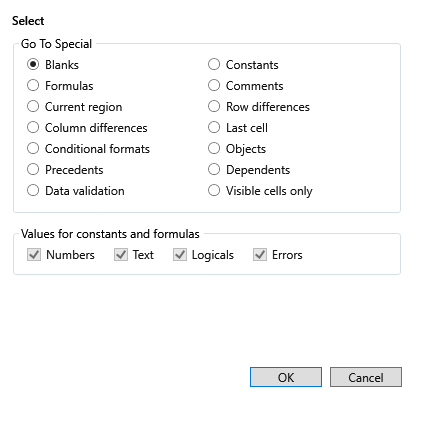
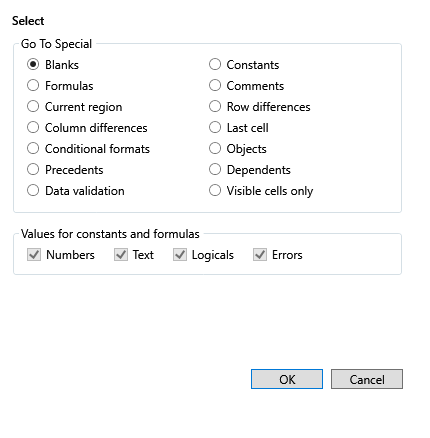
fix: verify Go To Special Avalonia parity evidence

diff --git a/tests/FreeX.App.Avalonia.Tests/ParityCaptureTests.cs b/tests/FreeX.App.Avalonia.Tests/ParityCaptureTests.cs
@@ -436,6 +436,9 @@ public sealed class ParityCaptureTests
                 CountExactColorOnRow(image, 274, red: 213, green: 223, blue: 229)
                     .Should().BeGreaterThan(300,
                         "the bottom value-type border should remain at the WPF-aligned action-row separation");
+                FindAccentRows(image, minimumY: 350, maximumY: 400, minimumPixels: 20)
+                    .Should().Equal([369, 388],
+                        "the default action button border should align with the WPF capture rows");
                 var checkboxAnchors = FindDarkRunStartsOnRow(image, 248, minimumLength: 12);
                 checkboxAnchors.Should().Equal([27, 113, 173, 255]);
 
@@ -554,6 +557,33 @@ public sealed class ParityCaptureTests
         }
 
         return count;
+    }
+
+    private static IReadOnlyList<int> FindAccentRows(
+        PixelImage image,
+        int minimumY,
+        int maximumY,
+        int minimumPixels)
+    {
+        var rows = new List<int>();
+        for (var y = minimumY; y <= maximumY; y++)
+        {
+            var count = 0;
+            for (var x = 0; x < image.Width; x++)
+            {
+                var offset = (y * image.Width + x) * 4;
+                var red = image.Pixels[offset + 2];
+                var green = image.Pixels[offset + 1];
+                var blue = image.Pixels[offset];
+                if (red < 180 && green is > 90 and < 210 && blue > 180)
+                    count++;
+            }
+
+            if (count >= minimumPixels)
+                rows.Add(y);
+        }
+
+        return rows;
     }
 
     private static IReadOnlyList<int> FindDarkRunStartsOnRow(

diff --git a/src/FreeX.App.Host/ParityCapture.cs b/src/FreeX.App.Host/ParityCapture.cs
@@ -522,6 +522,10 @@ internal static class ParityCapture
             {
                 CaptureDialog(results, "dialog.GoalSeek", outDir, () => CreateGoalSeekParityDialog(sheet.Id));
             }
+            else if (string.Equals(targetSurfaceId, "dialog.GoToSpecial", StringComparison.Ordinal))
+            {
+                CaptureDialog(results, "dialog.GoToSpecial", outDir, () => new GoToSpecialDialog());
+            }
             else if (string.Equals(targetSurfaceId, "dialog.Sparkline", StringComparison.Ordinal))
             {
                 CaptureDialog(results, "dialog.Sparkline", outDir, () =>
@@ -560,7 +564,7 @@ internal static class ParityCapture
             }
             else
             {
-                AddMissing(results, targetSurfaceId, "dialog", "Targeted WPF parity capture only supports dialog.FormatCells, dialog.AccessibilityChecker, dialog.GoalSeek, dialog.Sparkline, dialog.ExportOptions, dialog.ProtectWorkbook, and dialog.PivotTableOptions in this lane.");
+                AddMissing(results, targetSurfaceId, "dialog", "Targeted WPF parity capture only supports dialog.FormatCells, dialog.AccessibilityChecker, dialog.GoalSeek, dialog.GoToSpecial, dialog.Sparkline, dialog.ExportOptions, dialog.ProtectWorkbook, and dialog.PivotTableOptions in this lane.");
             }
 
             return;

diff --git a/tests/FreeX.App.Host.Tests/GoToDialogsTests.cs b/tests/FreeX.App.Host.Tests/GoToDialogsTests.cs
@@ -122,6 +122,16 @@ public sealed class GoToDialogsTests
     }
 
     [Fact]
+    public void GoToSpecialParityCapture_SupportsFocusedProductionDialogRoute()
+    {
+        var source = DialogSourceTestSupport.ReadHostSources("ParityCapture.cs");
+
+        source.Should().Contain("string.Equals(targetSurfaceId, \"dialog.GoToSpecial\", StringComparison.Ordinal)");
+        source.Should().Contain("CaptureDialog(results, \"dialog.GoToSpecial\", outDir, () => new GoToSpecialDialog())");
+        source.Should().Contain("dialog.GoToSpecial, dialog.Sparkline");
+    }
+
+    [Fact]
     public void GoToDialog_ExposesUIANamesAndHelpTextForReferenceSurfaces()
     {
         var source = DialogSourceTestSupport.ReadHostSources("GoToDialog.cs");

diff --git a/tests/FreeX.App.Services.Tests/GoToDialogPlannerTests.cs b/tests/FreeX.App.Services.Tests/GoToDialogPlannerTests.cs
@@ -31,7 +31,7 @@ public sealed class GoToDialogPlannerTests
         GoToSpecialDialogPlanner.AvaloniaContentRightMargin.Should().Be(29);
         GoToSpecialDialogPlanner.ActionRowTopMargin.Should().Be(10);
         GoToSpecialDialogPlanner.ActionRowRightMargin.Should().Be(28);
-        GoToSpecialDialogPlanner.ActionRowBottomMargin.Should().Be(51);
+        GoToSpecialDialogPlanner.ActionRowBottomMargin.Should().Be(49);
         GoToSpecialDialogPlanner.ActionButtonHeight.Should().Be(20);
         GoToSpecialDialogPlanner.AvaloniaChoiceGroupTopMargin.Should().Be(3);
         GoToSpecialDialogPlanner.AvaloniaChoiceGroupBottomMargin.Should().Be(13);

diff --git a/src/FreeX.App.Services/GoToDialogPlanner.cs b/src/FreeX.App.Services/GoToDialogPlanner.cs
@@ -91,7 +91,7 @@ public static class GoToSpecialDialogPlanner
     public const double AvaloniaContentRightMargin = 29;
     public const double ActionRowTopMargin = 10;
     public const double ActionRowRightMargin = 28;
-    public const double ActionRowBottomMargin = 51;
+    public const double ActionRowBottomMargin = 49;
     public const double ActionButtonHeight = 20;
     public const double AvaloniaChoiceGroupTopMargin = 3;
     public const double AvaloniaChoiceGroupBottomMargin = 13;

diff --git a/docs/parity/avalonia-wpf-cross-app-dashboard.md b/docs/parity/avalonia-wpf-cross-app-dashboard.md
@@ -8,9 +8,9 @@ Generated by `tools/Generate-CrossAppParityDashboard.ps1` from existing generate
 
 | App | Primary evidence | Current generated state | Next slice |
 |---|---|---|---|
-| FreeX | Functional matrix, classifier, dialog inventory, dialog visual evidence, command surface | 531 functional commands; 473 command inventory parity; 0 Avalonia-missing; 0 real classified binding gaps; 48 catalog-backed pseudo-gallery rows (34 conditional-format, 10 font/border, 4 accounting-symbol); 57/57 dialog routes captured on WPF and Avalonia; 93 paired screenshot surface ids, 0 Avalonia-only ids, 0 WPF-only ids; 0 scale-aware dimension mismatches; 1 unresolved high-delta visual review candidates at triage score >= 0.4 (highest 0.411352); 32 raw PNG pixel dimension mismatches, of which 32 normalize by capture DPI. These are coverage/triage metrics, not a visual-parity claim. | Command/dialog route coverage is complete for the generated inputs: all 48 pseudo-gallery rows are catalog-backed in classifier evidence (34 conditional-format rows over 38 runtime catalog items, 10 font/border rows, and 4 accounting-symbol rows), and dialog screenshot evidence has 93 paired WPF/Avalonia manifest surface ids with 0 Avalonia-only ids. This is coverage and size-comparability evidence, not visual parity. The paired screenshots retain 1 unresolved high-delta visual review candidates at triage score >= 0.4 (highest 0.411352); keep those candidates separate from 0 scale-aware dimension mismatch rows and 32 raw PNG pixel dimension mismatches. |
+| FreeX | Functional matrix, classifier, dialog inventory, dialog visual evidence, command surface | 531 functional commands; 473 command inventory parity; 0 Avalonia-missing; 0 real classified binding gaps; 48 catalog-backed pseudo-gallery rows (34 conditional-format, 10 font/border, 4 accounting-symbol); 57/57 dialog routes captured on WPF and Avalonia; 93 paired screenshot surface ids, 0 Avalonia-only ids, 0 WPF-only ids; 0 scale-aware dimension mismatches; 0 unresolved high-delta visual review candidates at triage score >= 0.4 (highest 0.39914); 32 raw PNG pixel dimension mismatches, of which 32 normalize by capture DPI. These are coverage/triage metrics, not a visual-parity claim. | Command/dialog route coverage is complete for the generated inputs: all 48 pseudo-gallery rows are catalog-backed in classifier evidence (34 conditional-format rows over 38 runtime catalog items, 10 font/border rows, and 4 accounting-symbol rows), and dialog screenshot evidence has 93 paired WPF/Avalonia manifest surface ids with 0 Avalonia-only ids. This is coverage and size-comparability evidence, not visual parity. The paired screenshots retain 0 unresolved high-delta visual review candidates at triage score >= 0.4 (highest 0.39914); keep those candidates separate from 0 scale-aware dimension mismatch rows and 32 raw PNG pixel dimension mismatches. |
 | FreeW | Generated command inventory | 870 commands; 451 shared-profile; 0 actionable WPF-missing; 0 actionable Avalonia-missing; 371 profile-shape-only; 43 command-id aliases; 5 platform-only; 0 deferred | Backstage print/export, WordArt/watermark, table/page-composition, shape/object, SmartArt polygon, and chart visual proof now have paired WPF/Avalonia renderer contracts plus no-Word real-capture smoke runs; chart proof also validates shared chart data signatures across hosts. All-up no-Word runner fallback drift is classified as runner evidence hygiene, and the standalone no-Word runner now writes a post-summary readiness manifest with comparable scenario IDs, candidate Word PNG baseline paths, remaining blocker IDs, and an explicit no-authoritative-Word-PNG-parity claim. Next FreeW evidence slices are the same runs with real Word PNG baselines on a Word-capable host and broader Word-authoritative drawing/object/chart/table comparisons. |
-| FreeP | Generated command/evidence inventory | 269 commands; 267 shared-profile; 0 actionable WPF-missing; 0 actionable Avalonia-missing; 2 platform-only; 91 workflow evidence rows | Layout picker, table picker, rich inline table/text editing, shared visible list galleries, picture-bullet import/rendering plus picker/media authoring, slide-pane reorder, bottom New Slide, notes-page preview/PDF rendering, fixed-layout PDF connector, image, triangle-arrowhead, rotation, ellipse, picture-frame/crop/alpha/color-effect, shape-opacity export, and PDF visual-baseline readiness with WPF/Avalonia page-raster artifact patterns plus paired diff-report targets, export/backstage package-handoff, presenter recording backend contracts plus capture-adapter readiness and paired backend injection, captured PPTX media and generated WebVTT caption artifact authoring, focused PowerPoint-native caption package retention including external caption relationship metadata, native media/caption sidecar package depth, and caption relationship-id collision remapping, shared chart number/date label rendering plus edge/mixed manual-layout bounds, surface grid plus projected contour/wireframe/3-D surface geometry plus 3-D pie lower-depth rendering, stock OHLC capture-readiness metadata, and PowerPoint/WPF/Avalonia chart baseline capture readiness, SmartArt basic hierarchy plus vertical bullet list plus basic cycle plus radial cycle plus gear cycle plus text cycle plus basic, continuous block, segmented, chevron, alternating, funnel, circle, and arrow-ribbon process plus basic block list plus vertical box list plus stacked list plus basic pyramid plus bounded pictureCaptionList live layout plus basic/radial/stacked Venn and target-list relationship layouts plus shared outline reorder/promote/demote editing, data-part authoring, text-pane/cache-regeneration authoring, and matching thin WPF/Avalonia text-pane host controls with bounded keyboard routes, header/footer placeholder creation plus inherited layout/master geometry, title-slide suppression, fixed/auto date options, shared OMML fraction-type variants, matrix spacing/base alignment, delimiter grow semantics, accent/bar render-plan coverage, manual line breaks, boxed equation-array alignment points, transparent phantom spacing classes, pre-sub/superscript layout, matrix empty-cell placeholder handling, and group-character vertical justification, ink execution with repeated custom-show route retention, modern comments/review with shared mention candidate and insertion planning, accessibility/proofing workflow depth, animation-pane row/playback workflow evidence, paired real Windows microphone narration handoff, paired Windows camera handoff readiness, paired default no-COM camera handoff/package-target readiness without encoded-payload or PowerPoint-baseline claims, deterministic encoded camera media payload artifacts through host-specific PPTX package paths, and paired OS-backed unavailable-hardware/no-device recording evidence now have WPF/Avalonia no-COM evidence paths. Continue workflow-depth slices in live capture on real microphone/camera hardware, actual local default no-COM camera video encoding that produces non-empty mp4 payloads, calibrated chart-family acceptance thresholds and remaining type-specific decisions beyond the current PowerPoint baseline-depth/type/label captures, broader SmartArt layout families, remaining OMML constructs/alignment semantics and PowerPoint-authoritative math visual-baseline coverage, broader real-deck PowerPoint-native media/caption baselines, actual PowerPoint PDF/PNG capture and calibrated PDF visual diffs on a COM-capable host, and PowerPoint-authoritative animation-pane visual/playback baselines. |
+| FreeP | Generated command/evidence inventory | 287 commands; 285 shared-profile; 0 actionable WPF-missing; 0 actionable Avalonia-missing; 2 platform-only; 91 workflow evidence rows | Layout picker, table picker, rich inline table/text editing, shared visible list galleries, picture-bullet import/rendering plus picker/media authoring, slide-pane reorder, bottom New Slide, notes-page preview/PDF rendering, fixed-layout PDF connector, image, triangle-arrowhead, rotation, ellipse, picture-frame/crop/alpha/color-effect, shape-opacity export, and PDF visual-baseline readiness with WPF/Avalonia page-raster artifact patterns plus paired diff-report targets, export/backstage package-handoff, presenter recording backend contracts plus capture-adapter readiness and paired backend injection, captured PPTX media and generated WebVTT caption artifact authoring, focused PowerPoint-native caption package retention including external caption relationship metadata, native media/caption sidecar package depth, and caption relationship-id collision remapping, shared chart number/date label rendering plus edge/mixed manual-layout bounds, surface grid plus projected contour/wireframe/3-D surface geometry plus 3-D pie lower-depth rendering, stock OHLC capture-readiness metadata, and PowerPoint/WPF/Avalonia chart baseline capture readiness, SmartArt basic hierarchy plus vertical bullet list plus basic cycle plus radial cycle plus gear cycle plus text cycle plus basic, continuous block, segmented, chevron, alternating, funnel, circle, and arrow-ribbon process plus basic block list plus vertical box list plus stacked list plus basic pyramid plus bounded pictureCaptionList live layout plus basic/radial/stacked Venn and target-list relationship layouts plus shared outline reorder/promote/demote editing, data-part authoring, text-pane/cache-regeneration authoring, and matching thin WPF/Avalonia text-pane host controls with bounded keyboard routes, header/footer placeholder creation plus inherited layout/master geometry, title-slide suppression, fixed/auto date options, shared OMML fraction-type variants, matrix spacing/base alignment, delimiter grow semantics, accent/bar render-plan coverage, manual line breaks, boxed equation-array alignment points, transparent phantom spacing classes, pre-sub/superscript layout, matrix empty-cell placeholder handling, and group-character vertical justification, ink execution with repeated custom-show route retention, modern comments/review with shared mention candidate and insertion planning, accessibility/proofing workflow depth, animation-pane row/playback workflow evidence, paired real Windows microphone narration handoff, paired Windows camera handoff readiness, paired default no-COM camera handoff/package-target readiness without encoded-payload or PowerPoint-baseline claims, deterministic encoded camera media payload artifacts through host-specific PPTX package paths, and paired OS-backed unavailable-hardware/no-device recording evidence now have WPF/Avalonia no-COM evidence paths. Continue workflow-depth slices in live capture on real microphone/camera hardware, actual local default no-COM camera video encoding that produces non-empty mp4 payloads, calibrated chart-family acceptance thresholds and remaining type-specific decisions beyond the current PowerPoint baseline-depth/type/label captures, broader SmartArt layout families, remaining OMML constructs/alignment semantics and PowerPoint-authoritative math visual-baseline coverage, broader real-deck PowerPoint-native media/caption baselines, actual PowerPoint PDF/PNG capture and calibrated PDF visual diffs on a COM-capable host, and PowerPoint-authoritative animation-pane visual/playback baselines. |
 
 ## FreeX Visual Review Queue
 
@@ -18,7 +18,6 @@ This is a deterministic human-review queue, not a pass/fail result. The threshol
 
 | Surface id | Triage score | Logical dimensions match | Dimension bucket | Review status |
 |---|---:|---|---|---|
-| dialog.GoToSpecial | 0.411352 | True | none | unresolved visual review candidate |
 
 ## Source Files
 

diff --git a/docs/parity/dialog-visual-evidence-summary.md b/docs/parity/dialog-visual-evidence-summary.md
@@ -37,18 +37,17 @@ Sources:
 | Paired expected-size evidence mismatches | 0 |
 | Stale promoted expected-size evidence | 0 |
 | Policy-accepted native/control differences | 0 |
-| High-delta visual review candidates | 1 |
+| High-delta visual review candidates | 0 |
 | Visual review triage threshold | 0.4 |
 
 ## Visual Review Queue
 
 This queue is a deterministic prioritization aid, not a pass/fail result. The threshold is 0.4: This is a deterministic review-prioritization cutoff over the triage score (normalized sample, luma, non-background, and logical-size deltas); it is not a pass/fail or visual-parity acceptance threshold. Rows at or above it remain unresolved review candidates until a human compares the paired evidence.
 
-Equal logical dimensions, nonblank PNGs, and paired manifest ids establish evidence coverage and size comparability only; they do not establish visual parity. The 1 rows below remain unresolved high-delta candidates.
+Equal logical dimensions, nonblank PNGs, and paired manifest ids establish evidence coverage and size comparability only; they do not establish visual parity. The 0 rows below remain unresolved high-delta candidates.
 
 | Surface id | Score | Logical dimensions match | Dimension bucket | Expected-size mismatch | Review status | Review reason |
 | --- | ---: | --- | --- | --- | --- | --- |
-| dialog.GoToSpecial | 0.411 | True | none | False | unresolved visual review candidate | High image delta requires paired WPF/Avalonia visual review; equal dimensions do not resolve it. |
 
 ## Scale-Aware Dimension Mismatch Classification
 
@@ -63,7 +62,6 @@ Outliers are ranked by a deterministic triage score: normalized 32x32 ARGB sampl
 
 | Surface id | WPF logical size | Avalonia logical size | Raw PNG sizes | Bucket | Evidence flag | Score | Sample delta | Luma delta | Non-bg delta |
 | --- | ---: | ---: | --- | --- | --- | ---: | ---: | ---: | ---: |
-| dialog.GoToSpecial | 430x438 | 430x438 | 430x438 px @ 96 DPI vs 430x438 px @ 96 DPI |  |  | 0.411 | 0.168 | 0.128 | 0.115 |
 | dialog.PivotValueFieldSettings | 430x430 | 430x430 | 430x430 px @ 96 DPI vs 430x430 px @ 96 DPI |  |  | 0.399 | 0.163 | 0.125 | 0.111 |
 | dialog.PivotValueFieldSettings.SummarizeValuesBy | 430x430 | 430x430 | 430x430 px @ 96 DPI vs 430x430 px @ 96 DPI |  |  | 0.399 | 0.163 | 0.125 | 0.111 |
 | dialog.PivotValueFieldSettings.ShowValuesAs | 430x430 | 430x430 | 430x430 px @ 96 DPI vs 430x430 px @ 96 DPI |  |  | 0.399 | 0.163 | 0.125 | 0.110 |
@@ -73,6 +71,7 @@ Outliers are ranked by a deterministic triage score: normalized 32x32 ARGB sampl
 | dialog.PivotFieldFilter | 380x470 | 380x470 | 380x470 px @ 96 DPI vs 380x470 px @ 96 DPI |  |  | 0.364 | 0.172 | 0.115 | 0.077 |
 | dialog.PivotFieldFilter.LabelFilters | 380x470 | 380x470 | 380x470 px @ 96 DPI vs 380x470 px @ 96 DPI |  |  | 0.360 | 0.156 | 0.118 | 0.086 |
 | dialog.PivotFieldFilter.ValueFilters | 380x470 | 380x470 | 380x470 px @ 96 DPI vs 380x470 px @ 96 DPI |  |  | 0.360 | 0.155 | 0.118 | 0.087 |
+| dialog.FindReplace.Replace | 720x430 | 720x430 | 720x430 px @ 96 DPI vs 720x430 px @ 96 DPI |  |  | 0.352 | 0.031 | 0.020 | 0.302 |
 
 ## Scale-Aware Dimension Mismatch Details
 
@@ -122,7 +121,7 @@ These rows have a DPI-normalized checked-in PNG size that disagrees with the dia
 | dialog.GoalSeek | dialog.GoalSeek.png | 380x210 | 380x210 px @ 96 DPI | True | dialog.GoalSeek.png | 380x210 | 380x210 px @ 96 DPI | True | True | 0.054 |
 | dialog.GoalSeekStatus | dialog.GoalSeekStatus.png | 380x190 | 380x190 px @ 96 DPI | True | dialog.GoalSeekStatus.png | 380x190 | 380x190 px @ 96 DPI | True | True | 0.089 |
 | dialog.GoTo | dialog.GoTo.png | 420x320 | 630x480 px @ 144 DPI | True | dialog.GoTo.png | 420x320 | 420x320 px @ 96 DPI | True | True | 0.110 |
-| dialog.GoToSpecial | dialog.GoToSpecial.png | 430x438 | 430x438 px @ 96 DPI | True | dialog.GoToSpecial.png | 430x438 | 430x438 px @ 96 DPI | True | True | 0.411 |
+| dialog.GoToSpecial | dialog.GoToSpecial.png | 430x438 | 430x438 px @ 96 DPI | True | dialog.GoToSpecial.png | 430x438 | 430x438 px @ 96 DPI | True | True | 0.034 |
 | dialog.InsertHyperlink | dialog.InsertHyperlink.png | 560x300 | 840x450 px @ 144 DPI | True | dialog.InsertHyperlink.png | 560x300 | 560x300 px @ 96 DPI | True | True | 0.095 |
 | dialog.InsertSlicer | dialog.InsertSlicer.png | 410x270 | 615x405 px @ 144 DPI | True | dialog.InsertSlicer.png | 410x270 | 410x270 px @ 96 DPI | True | True | 0.046 |
 | dialog.InsertTimeline | dialog.InsertTimeline.png | 410x270 | 615x405 px @ 144 DPI | True | dialog.InsertTimeline.png | 410x270 | 410x270 px @ 96 DPI | True | True | 0.040 |
